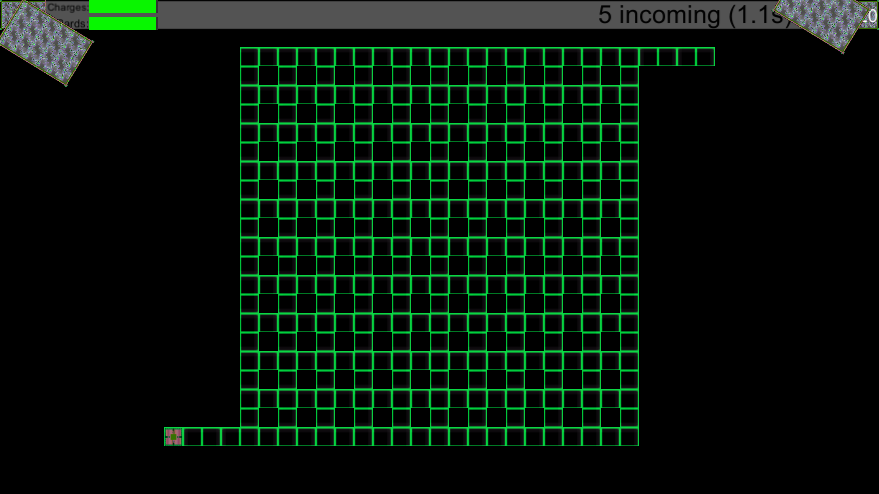
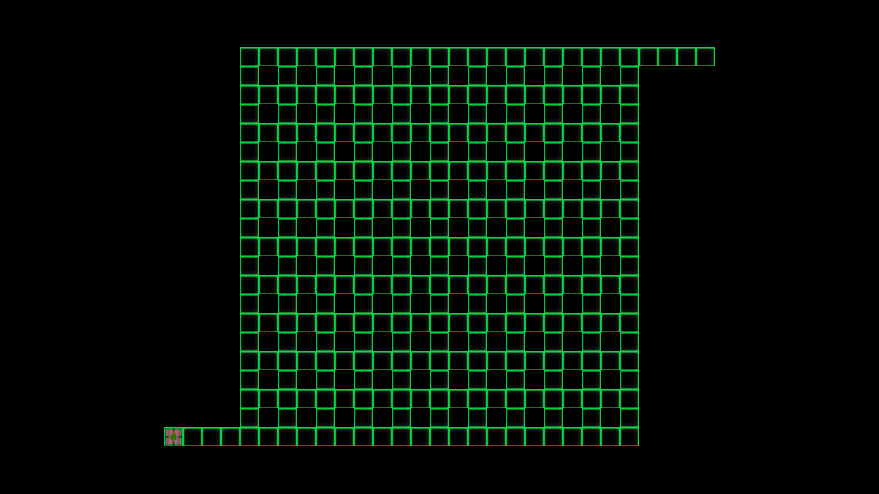
level select uses the automatic screnshots from last commit to show a thumnail when hovering over a level.  level select text size dropped from 30 to 20.  New sprite (Error.png) for when www fails to load an image for whatever reason.

Changed region(s): [[0.0, 0.0, 1.0, 0.1822]]

diff --git a/Assets/Scripts/UI/LevelSelectScript.cs b/Assets/Scripts/UI/LevelSelectScript.cs
@@ -11,11 +11,13 @@ using UnityEngine.SceneManagement;
 /// </summary>
 public class LevelSelectScript : BaseBehaviour
 {
-    public string       levelDir;         //directory levels are stored in
-    public string       modLevelDir;      //directory mod levels are stored in
-    public GameObject   buttonPrefab;     //prefab used to create buttons
-    public GameObject   menuRoot;         //object to be destroyed when the menu is no longer needed
-    public Text         infoText;         //text object to use for showing level information
+    public string       levelDir;     //directory levels are stored in
+    public string       modLevelDir;  //directory mod levels are stored in
+    public string       thumbnailDir; // where the level thumbnails are stored
+    public GameObject   buttonPrefab; //prefab used to create buttons
+    public GameObject   menuRoot;     //object to be destroyed when the menu is no longer needed
+    public Image        infoImage;    //image object to use for showing level information
+    public Text         infoText;     //text object to use for showing level information
 
     //colors to be used on various types of buttons
     public Color        menuButtonColor;  //misc. menu buttons such as back, quit, etc.
@@ -163,16 +165,17 @@ public class LevelSelectScript : BaseBehaviour
     /// </summary>
     private void LevelSelected(FileInfo levelFile)
     {
-        chosenLevelFile = levelFile;        //save the chosen level
-        destroyButtons();                   //get rid of the level menu
-        StartCoroutine(setupDeckButtons()); //present the deck menu
+        chosenLevelFile = levelFile;           //save the chosen level
+        destroyButtons();                      //get rid of the level menu
+        StartCoroutine(setupDeckButtons());    //present the deck menu
+        infoImage.gameObject.SetActive(false); //hide the info image since the deck menu doesnt need it
     }
 
     /// <summary>
-    /// called when a level is hovered over.  Shows information about it in the text box
+    /// [COROUTINE] called when a level is hovered over.  Shows information about it in the text box
     /// </summary>
     /// <param name="levelFile"></param>
-    private void LevelHovered(FileInfo levelFile)
+    private IEnumerator LevelHovered(FileInfo levelFile)
     {
         LevelData data = LevelData.Load(Path.Combine(Application.dataPath, levelFile.FullName));
 
@@ -190,7 +193,19 @@ public class LevelSelectScript : BaseBehaviour
 
         //this intimidating-looking function call simply counts how many path segments there are that end at a spot that no segment begins
         //such segments are at the "end of the line", and as such are the points the player must defend
-        infoText.text += data.pathSegments.FindAll(s => (data.pathSegments.Exists(ss => ss.startPos == s.endPos) == false)).Count + " points to defend"; 
+        infoText.text += data.pathSegments.FindAll(s => (data.pathSegments.Exists(ss => ss.startPos == s.endPos) == false)).Count + " points to defend";
+
+        //yes, I know its awkward, but we're loading the level thumbnail with WWW.
+        string thumbnailPath = "file:///" + Path.Combine(Application.dataPath, thumbnailDir);
+        WWW www = new WWW( Path.Combine( thumbnailPath, levelFile.Name.Replace(levelFile.Extension, ".png") ) );
+        yield return www;
+
+        if (www.error == null)
+            infoImage.sprite = Sprite.Create(www.texture, new Rect(0, 0, www.texture.width, www.texture.height), new Vector2(0.5f, 0.5f));
+        else
+            infoImage.sprite = Resources.Load<Sprite>("Sprites/Error");
+
+        infoImage.type = Image.Type.Sliced;
     }
 
     /// <summary>
@@ -239,6 +254,7 @@ public class LevelSelectScript : BaseBehaviour
                 chosenLevelFile = null;
                 destroyButtons();
                 StartCoroutine(setupLevelButtons());
+                infoImage.gameObject.SetActive(true);
                 break;
             default:
                 MessageHandlerScript.Error("LevelSelectScript doesnt know how to handle this button!");

diff --git a/Assets/Scripts/UI/CameraControlScript.cs b/Assets/Scripts/UI/CameraControlScript.cs
@@ -56,7 +56,7 @@ public class CameraControlScript : BaseBehaviour
     private void levelLoadedHandler()
     {
         showEntireLevel();
-        saveLevelThumbnail();
+        StartCoroutine(saveLevelThumbnail());
     }
 
     ///<summary>
@@ -91,7 +91,7 @@ public class CameraControlScript : BaseBehaviour
     /// takes a screenshot of the level and saves it as a .png with the same name as the level to StreamingAssets\Level Thumbnails
     /// if there is no level loaded, logs a warning instead
     /// </summary>
-    [Show] public void saveLevelThumbnail()
+    [Show] public IEnumerator saveLevelThumbnail()
     {
         if ( LevelManagerScript.instance.levelLoaded )
         {
@@ -101,7 +101,11 @@ public class CameraControlScript : BaseBehaviour
 
             //take the screenshot
             UICanvas.enabled = false;
+            yield return null;
+            yield return null;
+            yield return new WaitForEndOfFrame();
             Application.CaptureScreenshot(screenshotName);
+            yield return null;
             UICanvas.enabled = true;
         }
         else
@@ -110,3 +114,4 @@ public class CameraControlScript : BaseBehaviour
         }
     }
 }
+

diff --git a/Assets/Scripts/Towers/TowerScript.cs b/Assets/Scripts/Towers/TowerScript.cs
@@ -404,9 +404,11 @@ public class TowerScript : BaseBehaviour
         //yes, I know its awkward, but we're setting the sprite with WWW.
         WWW www = new WWW ("file:///" + Application.dataPath + "/StreamingAssets/Art/Sprites/" + d.towerSpriteName);
         yield return www;
-        Sprite result = Sprite.Create(www.texture, new Rect(0, 0, www.texture.width, www.texture.height), new Vector2(0.5f, 0.5f));
-        if (result != null)
-            towerImage.sprite = result;
+
+        if (www.error == null)
+            towerImage.sprite = Sprite.Create(www.texture, new Rect(0, 0, www.texture.width, www.texture.height), new Vector2(0.5f, 0.5f));
+        else
+            towerImage.sprite = Resources.Load<Sprite>("Sprites/Error");
 
         //if a color was provided, use it
         if (d.towerColor != null)

diff --git a/Assets/Scripts/Cards/CardScript.cs b/Assets/Scripts/Cards/CardScript.cs
@@ -794,7 +794,11 @@ public class CardScript : BaseBehaviour, IPointerEnterHandler, IPointerExitHandl
         //load art with WWW (yes, really!  I couldn't find an easier way to do this and still let the user access the image files)
         WWW www = new WWW ("file:///" + Application.dataPath + "/StreamingAssets/Art/Card Art/" + card.data.cardArtName); //load file
         yield return www; //wait for it to load
-        art.sprite = Sprite.Create(www.texture, new Rect(0, 0, www.texture.width, www.texture.height), new Vector2(0.5f, 0.5f));
+
+        if (www.error == null)
+            art.sprite = Sprite.Create(www.texture, new Rect(0, 0, www.texture.width, www.texture.height), new Vector2(0.5f, 0.5f));
+        else
+            art.sprite = Resources.Load<Sprite>("Sprites/Error");
     }
 
     /// <summary>

diff --git a/Assets/Scripts/UI/CardPreviewScript.cs b/Assets/Scripts/UI/CardPreviewScript.cs
@@ -73,7 +73,11 @@ public class CardPreviewScript : MonoBehaviour
         //load art with WWW (yes, really!  I couldn't find an easier way to do this and still let the user access the image files)
         WWW www = new WWW ("file:///" + Application.dataPath + "/StreamingAssets/Art/Card Art/" + data.cardArtName); //load file
         yield return www; //wait for it to load
-        art.sprite = Sprite.Create(www.texture, new Rect(0, 0, www.texture.width, www.texture.height), new Vector2(0.5f, 0.5f));
+
+        if (www.error == null)
+            art.sprite = Sprite.Create(www.texture, new Rect(0, 0, www.texture.width, www.texture.height), new Vector2(0.5f, 0.5f));
+        else
+            art.sprite = Resources.Load<Sprite>("Sprites/Error");
 
         //hide the back image
         cardBack.enabled = false;

diff --git a/Assets/Scripts/Enemies/EnemyScript.cs b/Assets/Scripts/Enemies/EnemyScript.cs
@@ -395,7 +395,11 @@ public class EnemyScript : BaseBehaviour
         //yes, I know its awkward, but we're setting the sprite with WWW.
         WWW www = new WWW ("file:///" + Application.dataPath + "/StreamingAssets/Art/Sprites/" + d.spriteName);
         yield return www;
-        enemyImage.sprite = Sprite.Create(www.texture, new Rect(0, 0, www.texture.width, www.texture.height), new Vector2(0.5f, 0.5f));
+
+        if (www.error == null)
+            enemyImage.sprite = Sprite.Create(www.texture, new Rect(0, 0, www.texture.width, www.texture.height), new Vector2(0.5f, 0.5f));
+        else
+            enemyImage.sprite = Resources.Load<Sprite>("Sprites/Error");
     }
 
     /// <summary>
